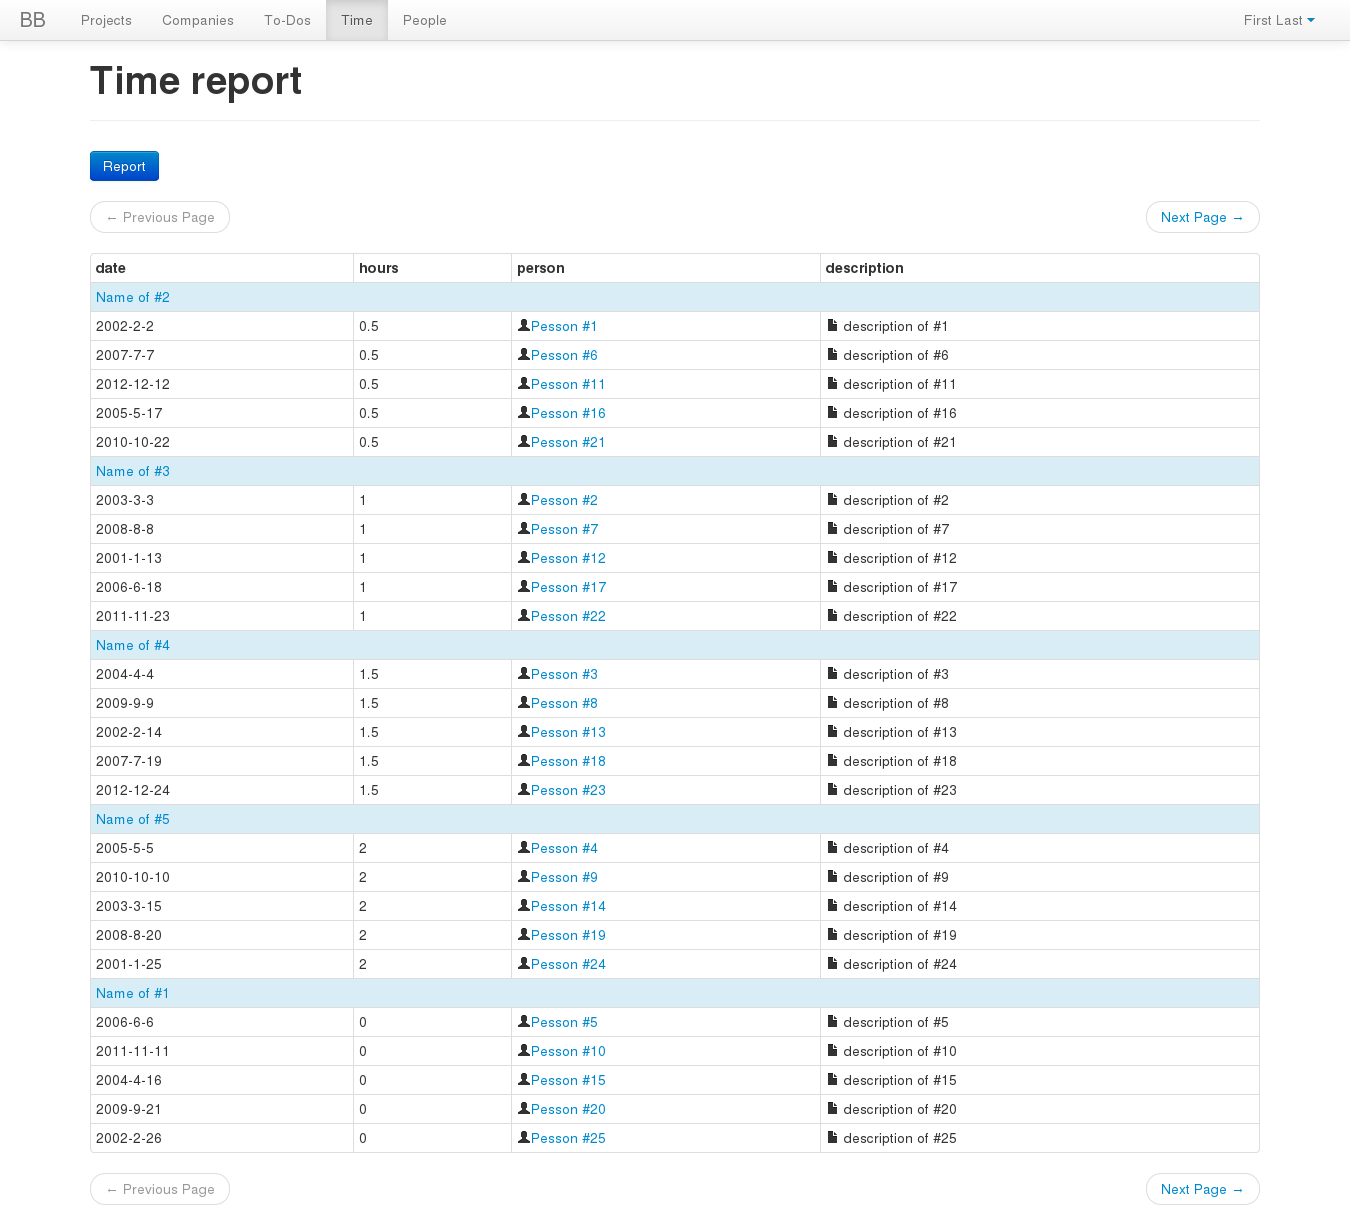
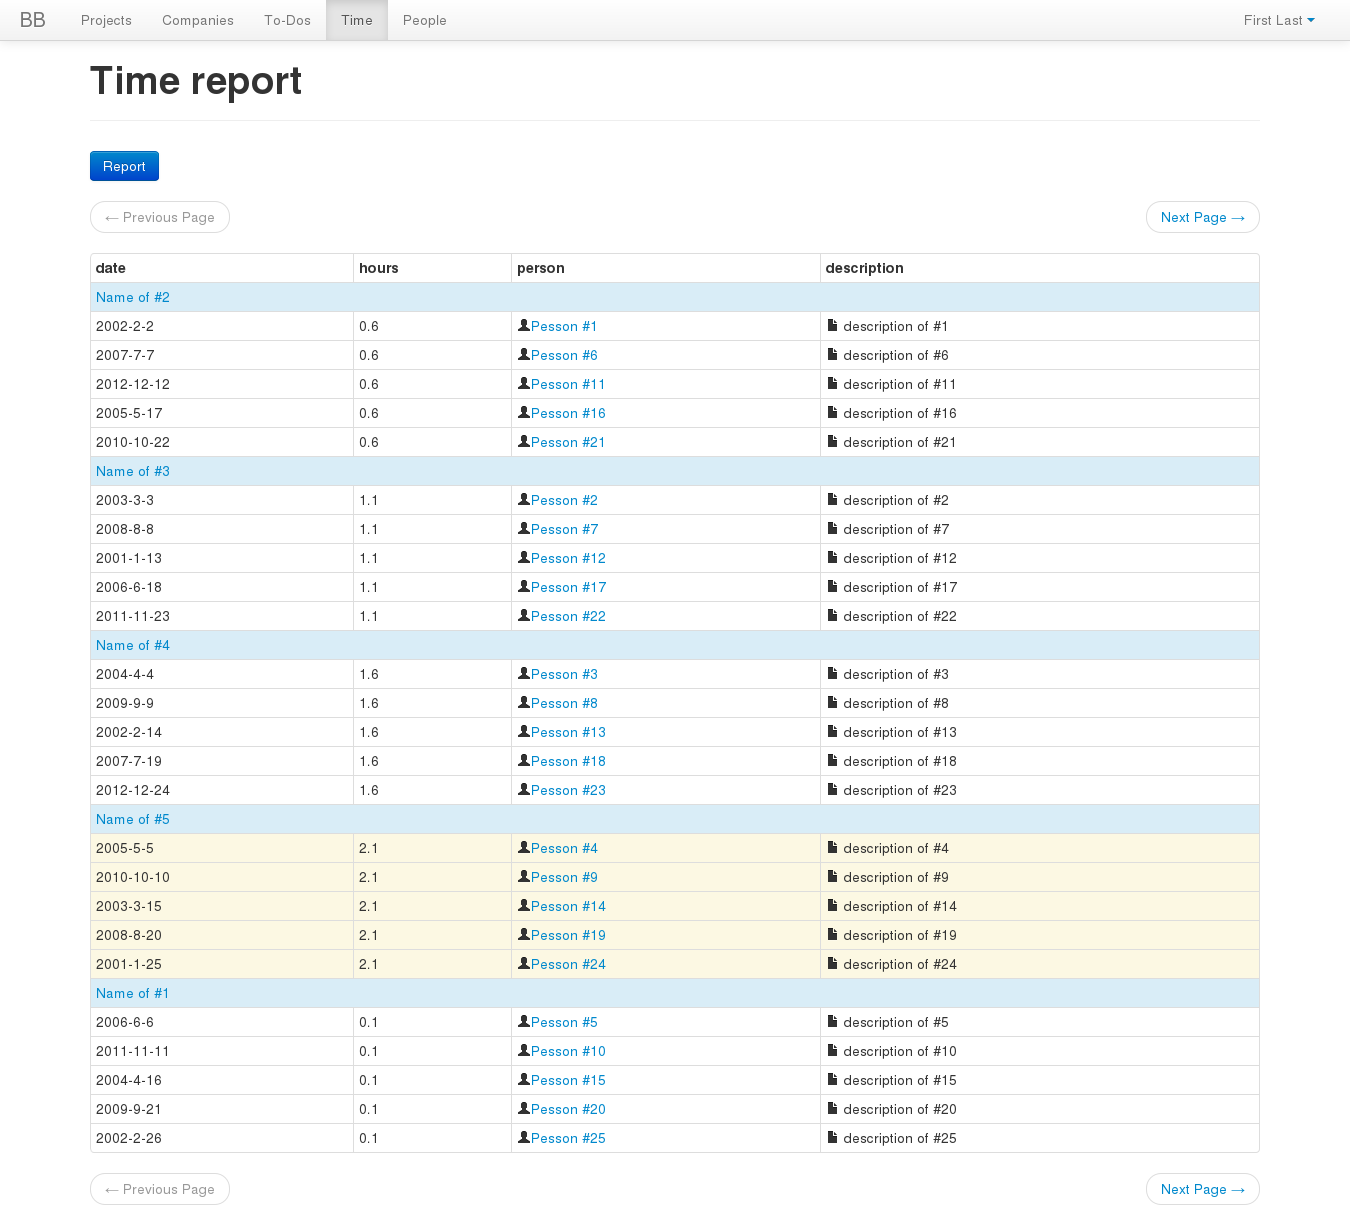
Updated time report data

Changed region(s): [[0.0622, 0.6824, 0.9333, 0.8065]]

diff --git a/bb.py b/bb.py
@@ -211,7 +211,7 @@ class CrossDomain(webapp2.RequestHandler):
                 "elements-count": i,
                 "email-address": "name@domain.com",
                 "first-name": "First#%s"%i,
-                "hours": i%5*0.5,
+                "hours": i%5*0.5+0.1,
                 "id": i,
                 "im-handle": "example#%s"%i,
                 "im-service": "Skype",
